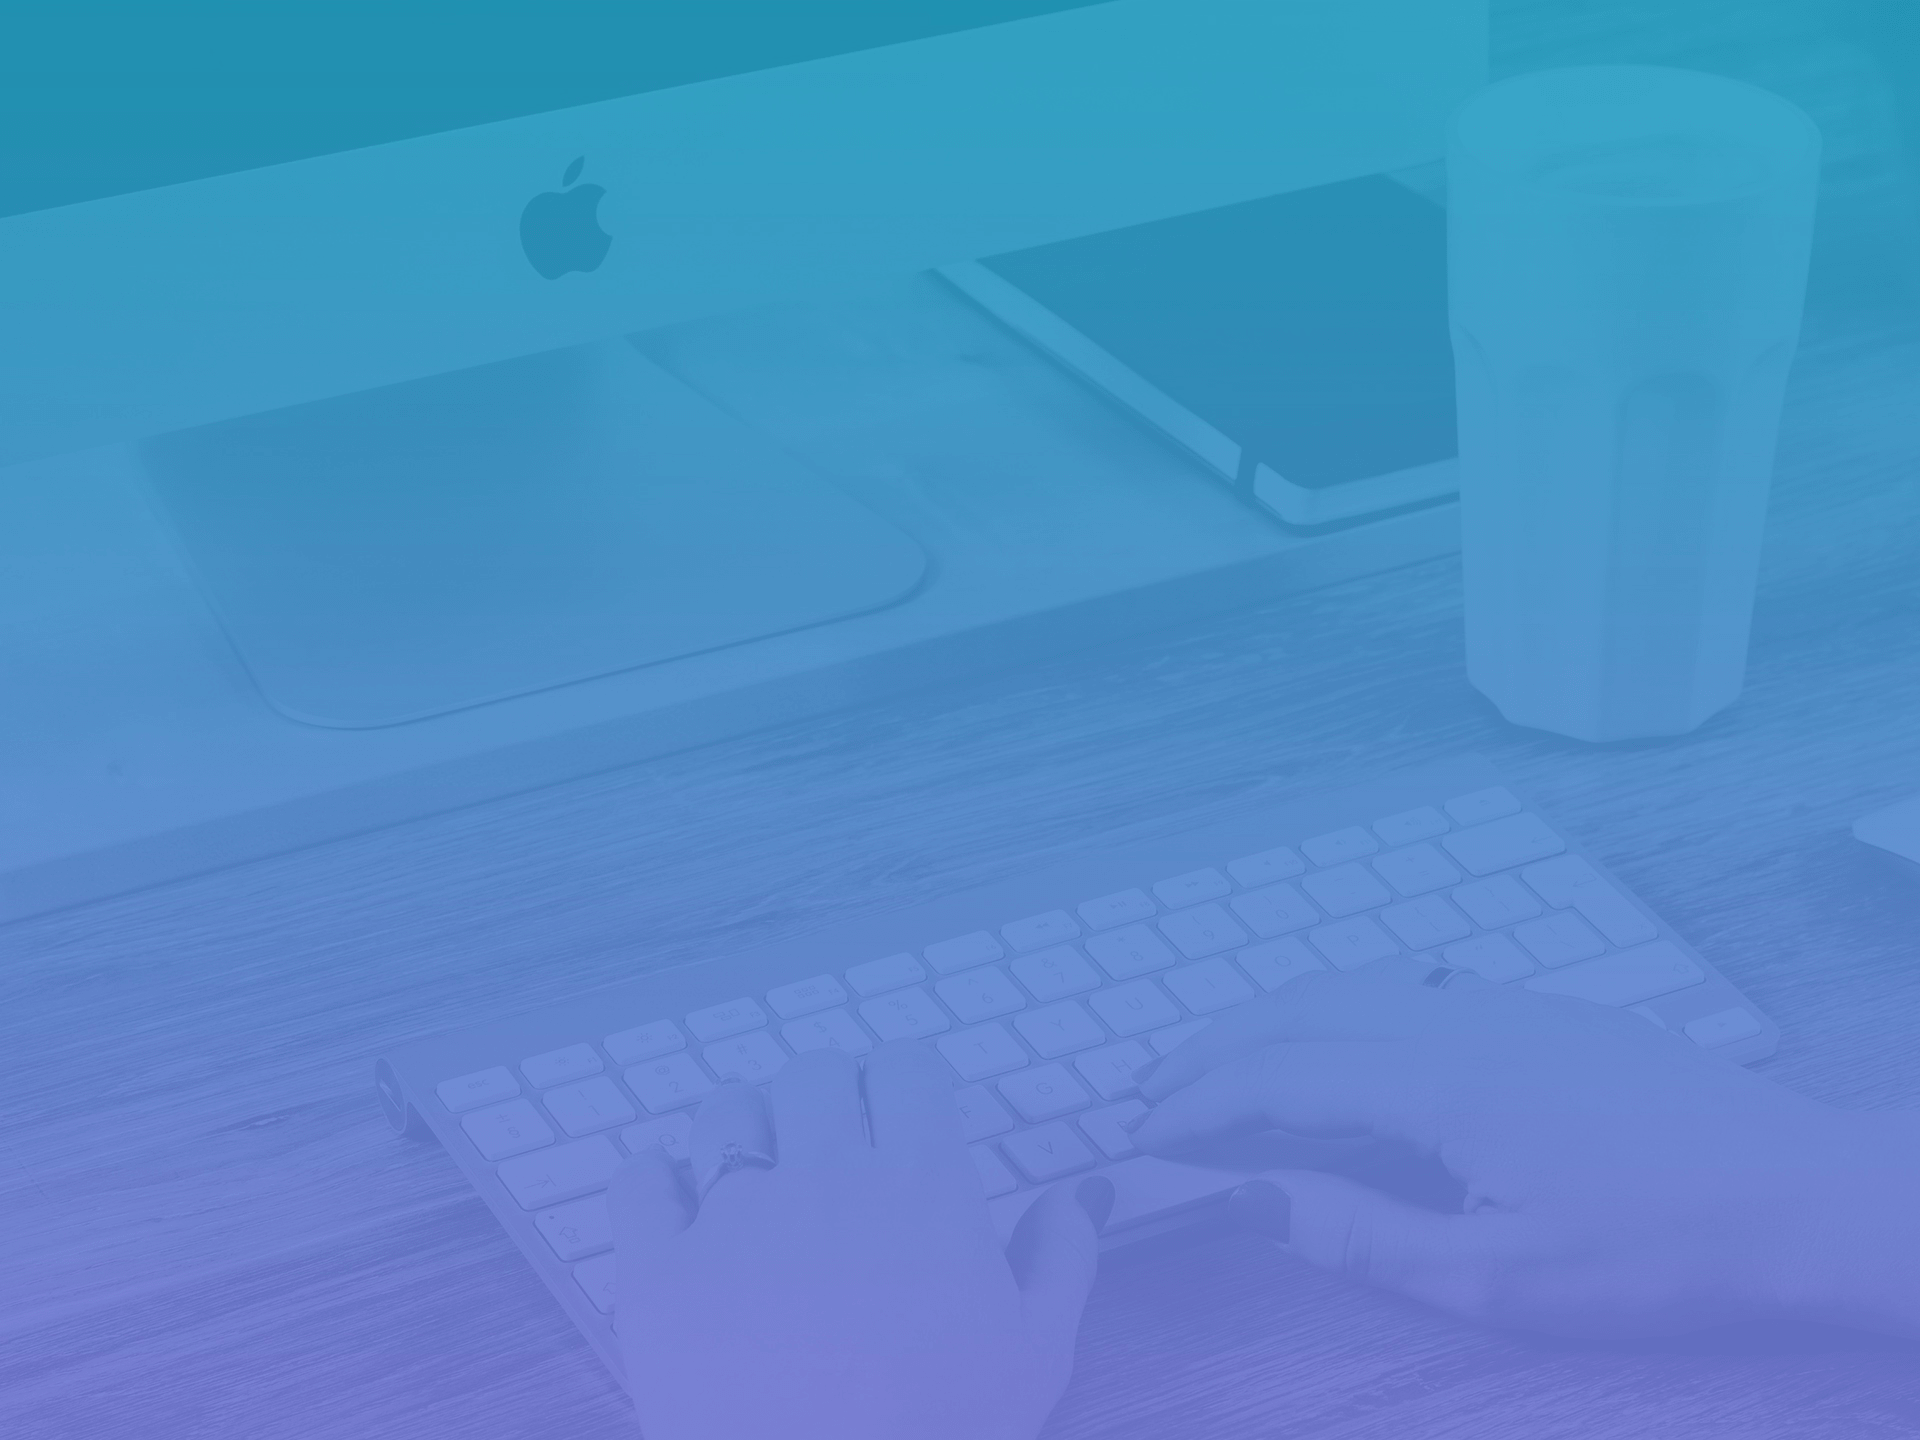
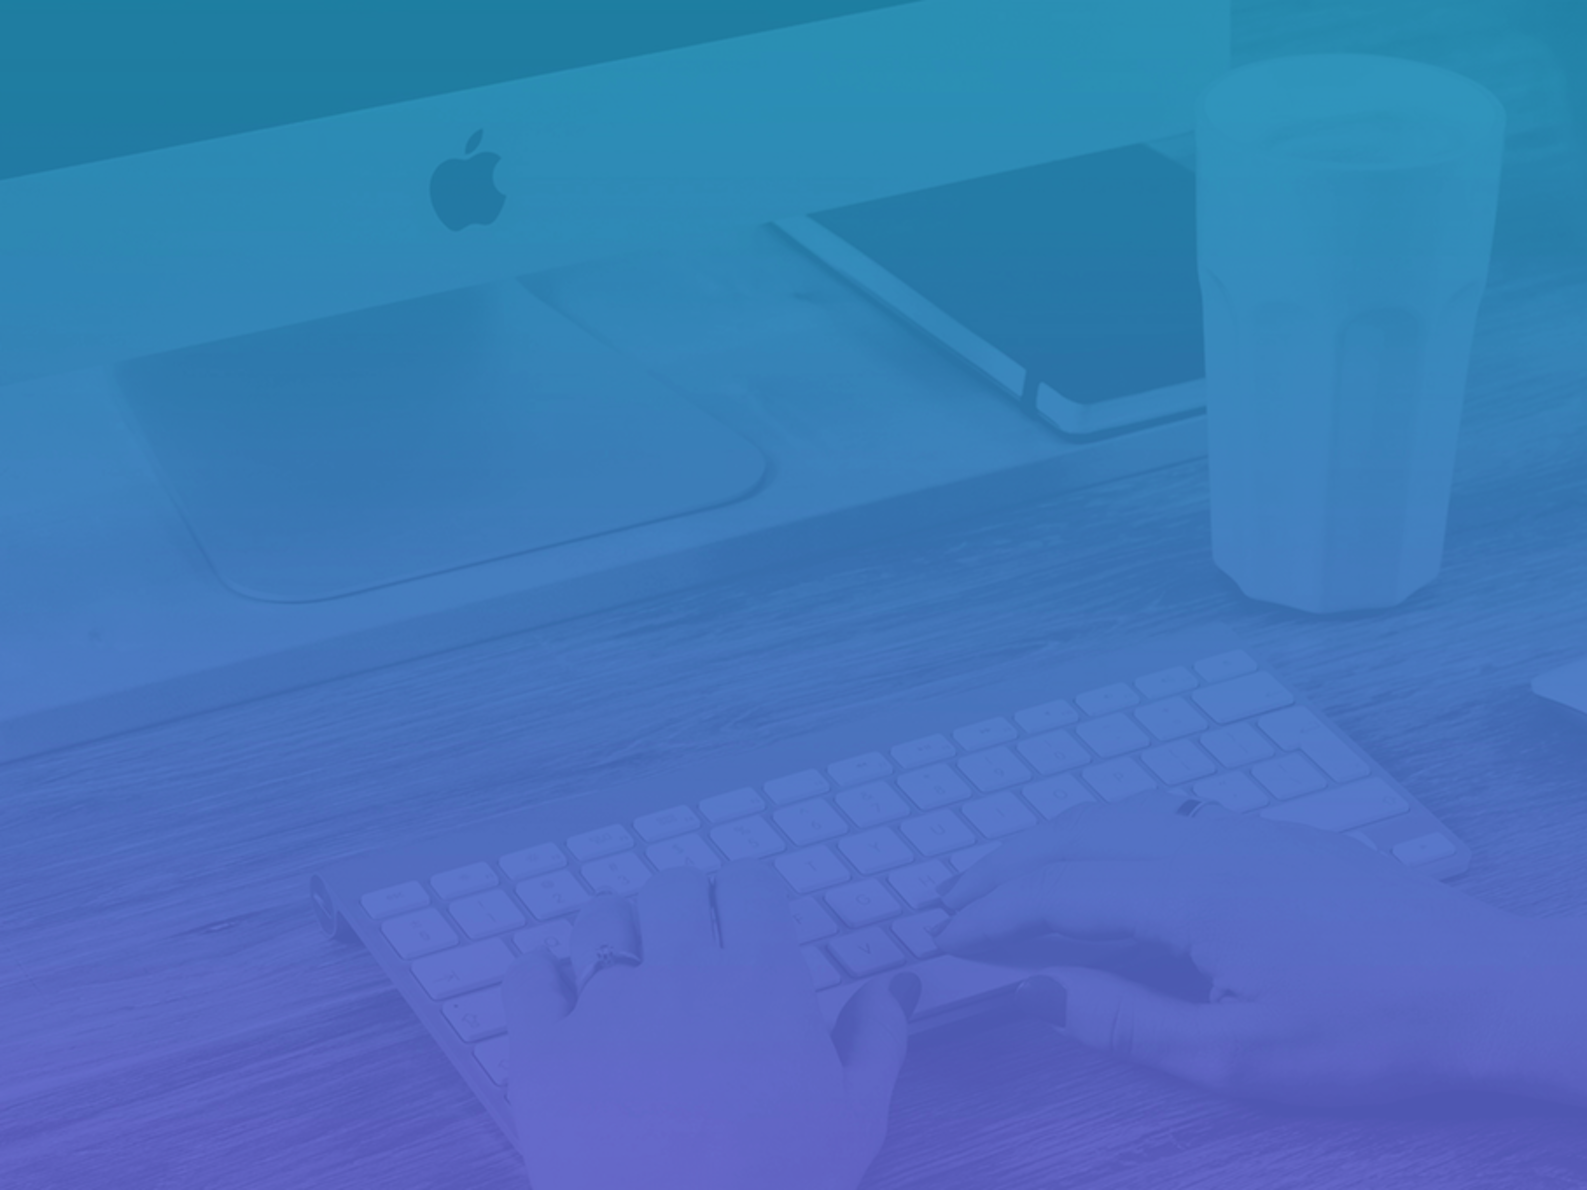
jumbotron added

Changed region(s): [[0.0, 0.8084, 0.3396, 1.0], [0.5558, 0.8706, 1.0, 1.0]]

diff --git a/index.html b/index.html
@@ -13,10 +13,11 @@
 </head>
 <body>
 
+
 <!-- Navigation -->
 <nav class="navbar navbar-expand-md navbar-light bg-light sticky-top">
 	<div class="container-fluid">
-		<a class="navbar-brand" href="#"><img src="img/logo.png"></a>
+		<a class="navbar-brand" href="#"><img src="img/clear-name-logo.png"></a>
 			<button class="navbar-toggler" type="button" data-toggle="collapse" 
 			data-target="#navbarResponsive">
 				<span class="navbar-toggler-icon" id="navbarResponsive"></span>
@@ -39,38 +40,47 @@
 		</button>
 </nav>
 <!--- Image Slider -->
-<div id="slides" class="carousel slide" data-ride="carousel" >
-	<ul class="carousel-indicators">
-		<li data-target="#slides" data-slide-to="0" class="active"></li>
-		<li data-target="#slides" data-slide-to="1"></li>
-		<li data-target="#slides" data-slide-to="2"></li>
-	</ul>
-	<div class="carousel-inner">
-		<div class="carousel-item active">
-			<img src="img/background.png">
-			<div class="carousel-caption">
-				<h1 class="display-2">I am the first carousel item</h1>
-				<h3>Complete website</h3>
-				<button type="button" class="btn btn-outline-light btn-lg">press button</button>
-				<button type="button" class="btn btn-primary btn-lg">press button</button>
+<div id="slides" class="carousel slide" data-ride="carousel">
+		<ul class="carousel-indicators">
+			<li data-target="#slides" data-slide-to="0" class="active"></li>
+			<li data-target="#slides" data-slide-to="1"></li>
+			<li data-target="#slides" data-slide-to="2"></li>
+		</ul>
+		<div class="carousel-inner">
+			<div class="carousel-item active">
+				<img src="img/mac.png">
+				<!-- <img src="img/random-code.jpeg"> -->
+				<div class="carousel-caption">
+					<h1 class="display-2">Bootstrap About me Page</h1>
+					<h3>Complete Website Layout</h3>
+					<button type="button" class="btn btn-outline-light btn-lg">VIEW PORTFOLIO</button>
+					<button type="button" class="btn btn-primary btn-lg">Get Started</button>
+				</div>
+			</div>
+			<div class="carousel-item">
+					<!-- <img src="img/background2.png" alt=""> -->
+					<img src="./img/math-background.png" alt="">
+			</div>
+			<div class="carousel-item">
+					<!-- <img src="img/background3.png" alt=""> -->
+					<img src="./img/piano-light.png" alt="">
 			</div>
 		</div>
-		<div class="carousel-item">
-			<img src="img/dark-piano.png">
-			<div class="carousel-caption">
-					<h1 class="display-2"><I am the second carousel item></h1>
-					<h3>Complete website</h3>
-					<button type="button" class="btn btn-light btn-lg"> 
-				</div>
-		</div>
-		<div class="carousel-item">
-			<img src="img/background3.png">
-		</div>
 	</div>
-</div>
-
 
 <!--- Jumbotron -->
+<div class="container-fluid">
+<div class="row jumbotron">
+	<div class="col-xs-12 col-sm-12 col-md-9 col-lg-9 col-xl-9">
+		<p class="lead">I'm going to put some further info here</p>
+	</div>
+	<div class="col-xs-12 col-sm-12 col-md-3 col-lg-3 col-xl-2">
+		<a href="#"><button type="button" class="btn btn-outline-secondary btn-lg">To be updated</button></a>
+
+	</div>
+
+</div>
+</div>
 
 
 <!--- Welcome Section -->
